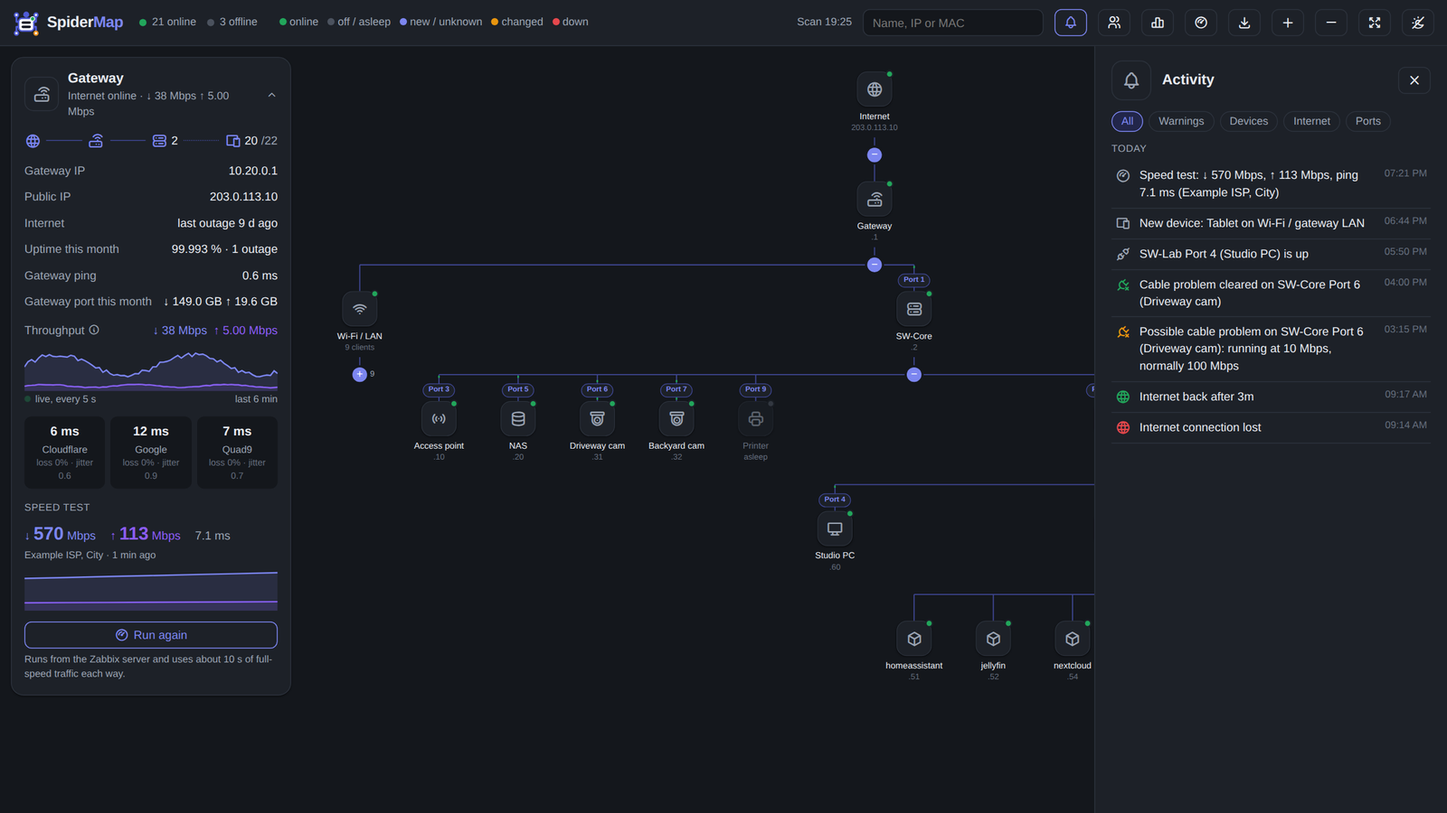
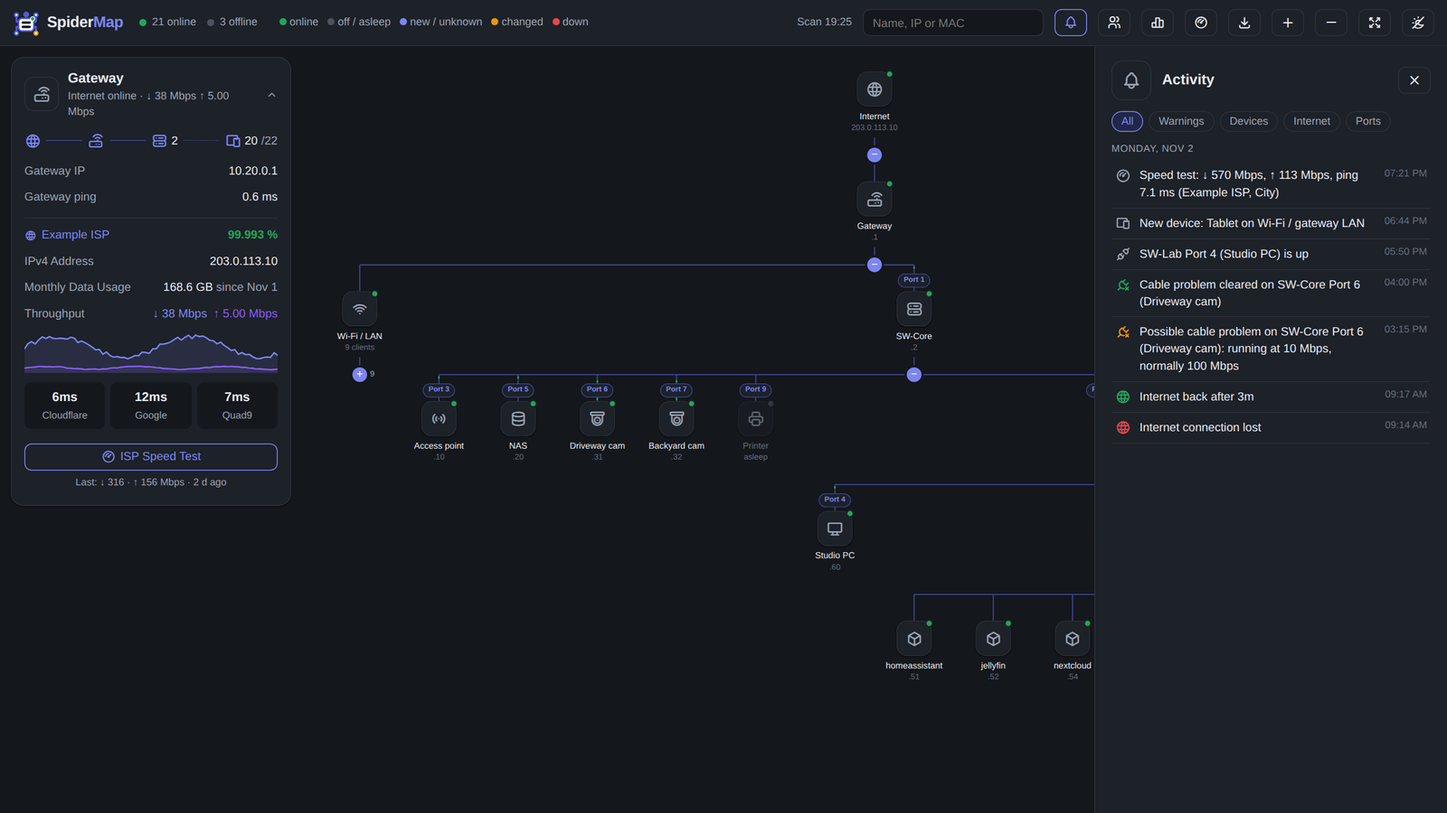
Add files via upload
SpiderMap 0.3.1: UniFi-style gateway card, speed test panel

Changed region(s): [[0.0, 0.2178, 0.2188, 0.84], [0.75, 0.1556, 0.8125, 0.1867]]

diff --git a/spidermap.html b/spidermap.html
@@ -12,7 +12,7 @@
 @media (prefers-color-scheme:dark){:root:not([data-theme=light]){--bg:#14171c;--card:#1d2128;--text:#e7eaf0;--muted:#9aa3b2;--faint:#646d7c;--border:#2c323c;--accent:#7c86f0;--accent-bg:#22264a;--ok-bg:#16301f;--warn-bg:#382a10;--bad-bg:#3a1a1b;--off:#4b525e;--line:#3f4794;--pur-bg:#2a2045;--shadow:0 1px 2px rgba(0,0,0,.4)}}
 :root[data-theme=dark]{--pur-bg:#2a2045;--bg:#14171c;--card:#1d2128;--text:#e7eaf0;--muted:#9aa3b2;--faint:#646d7c;--border:#2c323c;--accent:#7c86f0;--accent-bg:#22264a;--ok-bg:#16301f;--warn-bg:#382a10;--bad-bg:#3a1a1b;--off:#4b525e;--line:#3f4794;--shadow:0 1px 2px rgba(0,0,0,.4)}
 *{box-sizing:border-box}
-html,body{margin:0;height:100%;background:var(--bg);color:var(--text);font:13px/1.45 -apple-system,BlinkMacSystemFont,"Segoe UI",Roboto,Inter,Arial,sans-serif}
+html,body{margin:0;height:100%;overflow:hidden;background:var(--bg);color:var(--text);font:13px/1.45 -apple-system,BlinkMacSystemFont,"Segoe UI",Roboto,Inter,Arial,sans-serif}
 header{display:flex;align-items:center;gap:12px;flex-wrap:wrap;padding:10px 14px;border-bottom:1px solid var(--border);background:var(--card)}
 header h1{font-size:17px;font-weight:800;margin:0 6px 0 0;display:flex;align-items:center;gap:8px;letter-spacing:-.3px}
 header h1 b{font-weight:800}header h1 span{color:var(--accent)}
@@ -109,6 +109,10 @@ table{width:100%;border-collapse:collapse}
 .tile b{display:block;font-size:14px;font-weight:600}
 .tile span{font-size:11px;color:var(--muted)}
 .spark{width:100%;height:46px;display:block;margin:6px 0 2px}
+.gsep{border-top:1px solid var(--border);margin:8px 0 4px}
+.gr.isp{cursor:pointer}.gr.isp span:first-child{display:inline-flex;align-items:center;gap:6px;color:var(--accent)}
+.gfoot{position:sticky;bottom:0;background:var(--card);padding:12px 0 2px;margin-top:4px}
+.gfoot .btn{margin-top:0}.gfoot .last{font-size:11px;color:var(--muted);text-align:center;margin-top:6px}
 .livedot{display:inline-block;width:7px;height:7px;border-radius:50%;background:var(--ok);margin-right:5px;animation:blink 1.5s infinite}
 @keyframes blink{50%{opacity:.25}}
 .st-big{display:flex;gap:16px;align-items:baseline;margin:6px 0 2px}
@@ -195,7 +199,7 @@ table{width:100%;border-collapse:collapse}
 <div id="toast" role="status"></div>
 <script>
 "use strict";
-const PAGE_VERSION = "0.3.0";
+const PAGE_VERSION = "0.3.1";
 const COL = 108, ROW = 150;
 const $ = s => document.querySelector(s);
 const esc = s => String(s ?? "").replace(/[&<>"']/g, c => ({"&":"&amp;","<":"&lt;",">":"&gt;",'"':"&quot;","'":"&#39;"}[c]));
@@ -257,7 +261,7 @@ async function loadLive() {
 async function loadRT() {
   try {
     RT = await getData("rt");
-    if (DATA) { render(); gwCard(); if (sel === "#top") special("top"); else if (sel && byId[sel] && !($("#ef") && $("#ef").style.display === "block")) panel(sel, true); }
+    if (DATA) { render(); gwCard(); if (sel === "#top" || sel === "#speed") special(sel.slice(1)); else if (sel && byId[sel] && !($("#ef") && $("#ef").style.display === "block")) panel(sel, true); }
   } catch (e) {}
 }
 const rtFresh = () => RT && Date.now() / 1000 - RT.t < 30;
@@ -345,6 +349,11 @@ function bytes(v) { const u = ["B", "KB", "MB", "GB", "TB"]; let i = 0; while (v
 
 /* ---------- gateway card ---------- */
 let gwMin = store("nm-gwmin"); if (gwMin === null) gwMin = false;
+function bufferbloat(L) {
+  if (!L || !L.load_down) return null;
+  const rise = Math.max(L.load_down || 0, L.load_up || 0) - (L.ping || 0);
+  return rise < 30 ? ["low", "var(--ok)"] : rise < 100 ? ["medium", "var(--warn)"] : ["high", "var(--bad)"];
+}
 function gwCard() {
   const box = $("#gw"); if (!DATA) return;
   const gw = DATA.nodes.find(n => n.kind === "router"), inet = byId.inet, I = LIVE.inet || {};
@@ -356,57 +365,77 @@ function gwCard() {
   const wan = live && RT.wan ? RT.wan : I.wan;
   const wanRows = live && RT.hist.wan.length > 2 ? RT.hist.wan : LIVE.hist && LIVE.hist.wan;
   const lat = live && RT.latency && Object.keys(RT.latency).length ? RT.latency : I.latency || {};
-  const SP = live ? RT.speedtest : null;
+  const SP = live ? RT.speedtest : null, L = SP && SP.last;
+  const RI = live && RT.inet ? RT.inet : I;
   let h = "";
   const W = (LIVE.warnings || []);
   if (W.length && !down.length) h += `<div class="warnb" id="gw-warn"><i class="ti ti-alert-triangle"></i>${W.length === 1 ? esc(W[0]) : W.length + " warnings"}<span style="margin-left:auto">›</span></div>`;
   if (down.length) h += `<div class="warnb" data-go="${esc(down[0].id)}"><i class="ti ti-alert-triangle"></i>${down.length === 1 ? esc(down[0].name) + " is offline" : down.length + " important devices offline"}<span style="margin-left:auto">›</span></div>`;
-  h += `<div class="gh" id="gwh"><div class="ic">${gw ? iconHtml(gw) : '<i class="ti ti-router"></i>'}</div><div style="flex:1;min-width:0"><div style="font-weight:600;font-size:15px">${esc(gw ? gw.name : "Gateway")}</div><div style="color:var(--muted);font-size:12px">${I.up === false ? '<span style="color:var(--bad)">Internet down</span>' : "Internet online"}${wan ? " · ↓ " + mbps(wan.down) + " ↑ " + mbps(wan.up) : ""}</div></div><i class="ti ti-chevron-${gwMin ? "down" : "up"}" style="color:var(--muted)"></i></div>`;
+  h += `<div class="gh" id="gwh"><div class="ic">${gw ? iconHtml(gw) : '<i class="ti ti-router"></i>'}</div><div style="flex:1;min-width:0"><div style="font-weight:600;font-size:15px">${esc(gw ? gw.name : "Gateway")}</div><div style="color:var(--muted);font-size:12px">${RI.up === false ? '<span style="color:var(--bad)">Internet down</span>' : "Internet online"}${wan ? " · ↓ " + mbps(wan.down) + " ↑ " + mbps(wan.up) : ""}</div></div><i class="ti ti-chevron-${gwMin ? "down" : "up"}" style="color:var(--muted)"></i></div>`;
   h += `<div class="gb"><div class="chain">
-    <span class="c" title="Internet"><i class="ti ti-world"></i>${I.up === false ? '<span class="rd"></span>' : ""}</span><span class="ln1"></span>
+    <span class="c" title="Internet"><i class="ti ti-world"></i>${RI.up === false ? '<span class="rd"></span>' : ""}</span><span class="ln1"></span>
     <span class="c" title="Gateway"><i class="ti ti-router"></i></span><span class="ln1"></span>
     <span class="c" title="Switches"><i class="ti ti-server-2"></i><b>${sws.length}</b></span><span class="ln2"></span>
     <span class="c" title="Devices online / total"><i class="ti ti-devices"></i><b>${on}</b><span style="color:var(--muted)">/${devs.length}</span>${devs.some(n => status(n) === "down") ? '<span class="rd"></span>' : ""}</span></div>`;
-  const row = (k, v) => `<div class="gr"><span>${k}</span><span>${v}</span></div>`;
-  h += row("Gateway IP", esc(gw && gw.ip || "-")) + row("Public IP", esc(inet && inet.sub || "-"));
-  const RI = live && RT.inet ? RT.inet : I;
-  h += row("Internet", RI.down_since ? `<span style="color:var(--bad)">down since ${ago(RI.down_since)}</span>` : RI.last_outage ? "last outage " + ago(RI.last_outage[0]) : "no outages seen");
-  if (live && RT.inet && RT.inet.uptime_month != null) h += row("Uptime this month", RT.inet.uptime_month.toFixed(RT.inet.uptime_month >= 99.995 ? 2 : 3) + " %" + (RT.inet.outages_month.length ? ` · ${RT.inet.outages_month.length} outage${RT.inet.outages_month.length > 1 ? "s" : ""}` : ""));
+  const row = (k, v, title) => `<div class="gr"${title ? ` title="${esc(title)}"` : ""}><span>${k}</span><span>${v}</span></div>`;
+  h += row("Gateway IP", esc(gw && gw.ip || "-"));
   const gT = live && RT.targets && RT.targets.Gateway;
   if (gT) h += row("Gateway ping", gT.ms == null ? '<span style="color:var(--bad)">no answer</span>' : gT.ms + " ms" + (gT.loss ? ` · ${gT.loss} % loss` : ""));
+  h += `<div class="gsep"></div>`;
+  // internet line: provider and uptime this month, like a UniFi gateway card
+  const up = live && RT.inet ? RT.inet.uptime_month : null;
+  const upc = up == null ? "var(--muted)" : up >= 99.9 ? "var(--ok)" : up >= 99 ? "var(--warn)" : "var(--bad)";
+  const outages = live && RT.inet && RT.inet.outages_month ? RT.inet.outages_month.length : 0;
+  const upTitle = RI.down_since ? "" : (RI.last_outage ? "Last outage " + ago(RI.last_outage[0]) : "No outages seen") + (outages ? ` · ${outages} this month` : "");
+  h += `<div class="gr isp" id="gw-inet" title="${esc(upTitle)}"><span><i class="ti ti-world"></i>${esc((L && L.isp) || "Internet")}</span>`
+     + `<span style="color:${RI.down_since ? "var(--bad)" : upc};font-weight:600">${RI.down_since ? "down " + ago(RI.down_since).replace(" ago", "") : up == null ? "" : up.toFixed(up >= 99.995 ? 2 : 3) + " %"}</span></div>`;
+  h += row("IPv4 Address", esc(inet && inet.sub || "-"));
   const rootSw = DATA.nodes.find(n => n.kind === "switch" && n.flip && n.port_ref);
-  const mu = live && rootSw && RT.usage && RT.usage.m && RT.usage.m[rootSw.port_ref[0]] ? RT.usage.m[rootSw.port_ref[0]][String(rootSw.port_ref[1])] : null;
+  const mu = live && rootSw && RT.usage && RT.usage.m && RT.usage.m[rootSw.port_ref[0]] ? RT.usage.m[rootSw.port_ref[0]][String(rootSw.port_ref[1])] : (I.month ? [I.month.down, I.month.up] : null);
   const since = live && RT.usage && RT.usage.since && RT.usage.since > new Date(new Date().getFullYear(), new Date().getMonth(), 1).getTime() / 1000
-    ? ` <span style="color:var(--muted)">(since ${new Date(RT.usage.since * 1000).toLocaleDateString(undefined, { day: "numeric", month: "short" })})</span>` : "";
-  if (mu) h += row("Gateway port this month", "↓ " + bytes(mu[0]) + " ↑ " + bytes(mu[1]) + since);
-  else if (I.month) h += row("Gateway port this month", "↓ " + bytes(I.month.down) + " ↑ " + bytes(I.month.up));
-  h += `<div class="gr" style="margin-top:4px"><span title="Measured on the switch port to the gateway. Wi-Fi traffic to the internet goes through the gateway directly and is not included.">Throughput <i class="ti ti-info-circle"></i></span><span>${wan ? `<span style="color:var(--accent)">↓ ${mbps(wan.down)}</span> &nbsp;<span style="color:var(--pur)">↑ ${mbps(wan.up)}</span>` : "-"}</span></div>`;
-  h += spark(wanRows, 1, 2) + `<div class="lgd"><span>${live ? '<span class="livedot"></span>live, every ' + (RT.every || 5) + " s" : "updated every minute"}</span><span style="margin-left:auto">${wanRows ? (live && wanRows === RT.hist.wan ? "last " + Math.round(wanRows.length * (RT.every || 5) / 60) + " min" : "last " + wanRows.length + " min") : ""}</span></div>`;
+    ? new Date(RT.usage.since * 1000).toLocaleDateString(undefined, { day: "numeric", month: "short" }) : "";
+  if (mu) h += row("Monthly Data Usage", bytes(mu[0] + mu[1]) + (since ? ` <span style="color:var(--muted)">since ${esc(since)}</span>` : ""),
+                   `↓ ${bytes(mu[0])} · ↑ ${bytes(mu[1])}, measured on the switch port to the gateway`);
+  h += `<div class="gr" title="Measured on the switch port to the gateway. Wi-Fi traffic to the internet goes through the gateway directly and is not included."><span>Throughput</span><span>${wan ? `<span style="color:var(--accent)">↓ ${mbps(wan.down)}</span> &nbsp;<span style="color:var(--pur)">↑ ${mbps(wan.up)}</span>` : "-"}</span></div>`;
+  h += spark(wanRows, 1, 2);
   const TG = live && RT.targets ? RT.targets : {};
-  h += `<div class="tiles">${Object.entries(lat).map(([k, v]) => { const x = TG[k]; return `<div class="tile"><b style="color:${v == null ? "var(--bad)" : v > 80 ? "var(--warn)" : "var(--text)"}">${v == null ? "—" : Math.round(v) + " ms"}</b><span>${esc(k)}</span>${x ? `<small style="color:${x.loss >= 5 ? "var(--warn)" : "var(--faint)"}">loss ${x.loss}% · jitter ${x.jit ?? "-"}</small>` : ""}</div>`; }).join("")}</div>`;
-  if (SP) {
-    const L = SP.last;
-    h += `<div class="sec" style="margin-top:14px">Speed test</div>`;
-    if (SP.running) h += `<div class="st-big" style="color:var(--accent)"><i class="ti ti-loader-2 spin"></i><span>Running… ${Math.round(Date.now() / 1000 - (SP.started || 0))} s</span></div>`;
-    else if (L) {
-      h += `<div class="st-big"><span style="color:var(--accent)">↓ <b>${(L.down / 1e6).toFixed(0)}</b> Mbps</span><span style="color:var(--pur)">↑ <b>${(L.up / 1e6).toFixed(0)}</b> Mbps</span><span style="color:var(--muted)">${L.ping} ms</span></div><div style="font-size:11px;color:var(--muted)">${esc(L.server)} · ${ago(L.at)}${L.url && /^https:\/\/www\.speedtest\.net\//.test(L.url) ? ` · <a href="${esc(L.url)}" target="_blank" rel="noopener" style="color:var(--accent)">details</a>` : ""}</div>`;
-      if (L.load_down) {
-        const rise = Math.max(L.load_down || 0, L.load_up || 0) - (L.ping || 0);
-        const [g, c] = rise < 30 ? ["low", "var(--ok)"] : rise < 100 ? ["medium", "var(--warn)"] : ["high", "var(--bad)"];
-        h += `<div class="gr" style="margin-top:6px" title="How much the ping rises while the line is busy. High bufferbloat makes video calls and games stutter during downloads."><span>Latency under load</span><span>↓ ${Math.round(L.load_down)} ms · ↑ ${Math.round(L.load_up || 0)} ms</span></div><div class="gr"><span>Bufferbloat</span><span style="color:${c};font-weight:600">${g}</span></div>`;
-      }
-    }
-    if (spHist(SP).length > 1) h += `<div class="gr" style="cursor:pointer;color:var(--accent)" id="sp-more"><span>History of ${spHist(SP).length} tests</span><span>›</span></div>`;
-    if (SP.error) h += `<div style="color:var(--bad);font-size:12px;margin-top:6px">${esc(SP.error)}</div>`;
-    h += `<button class="btn wide" id="spt"><i class="ti ti-gauge"></i>${SP.running ? "Speed test running…" : L ? "Run again" : "Run speed test"}</button><div id="spm" style="font-size:11px;color:var(--muted);margin-top:5px">Runs from the Zabbix server and uses about 10 s of full-speed traffic each way.</div>`;
-  }
+  h += `<div class="tiles">${Object.entries(lat).map(([k, v]) => { const x = TG[k]; return `<div class="tile" title="${x ? `loss ${x.loss} % · jitter ${x.jit ?? "-"} ms` : ""}"><b style="color:${v == null ? "var(--bad)" : v > 80 ? "var(--warn)" : "var(--text)"}">${v == null ? "—" : Math.round(v) + "ms"}</b><span>${esc(k)}</span>${x && x.loss >= 5 ? `<small style="color:var(--warn)">loss ${x.loss}%</small>` : ""}</div>`; }).join("")}</div>`;
+  // the speed test button stays visible at the bottom of the card, even when the card has to scroll
+  if (SP) h += `<div class="gfoot"><button class="btn wide" id="spt">${SP.running ? `<i class="ti ti-loader-2 spin"></i>Testing… ${Math.round(Date.now() / 1000 - (SP.started || 0))} s` : '<i class="ti ti-gauge"></i>ISP Speed Test'}</button>`
+     + (L && !SP.running ? `<div class="last">Last: ↓ ${(L.down / 1e6).toFixed(0)} · ↑ ${(L.up / 1e6).toFixed(0)} Mbps · ${ago(L.at)}</div>` : "") + `</div>`;
   h += `</div>`;
   box.innerHTML = h; box.classList.toggle("min", gwMin);
   $("#gwh").onclick = () => { gwMin = !gwMin; store("nm-gwmin", gwMin); gwCard(); };
   const wb = box.querySelector(".warnb"); if (wb) wb.onclick = () => select(wb.dataset.go, true);
-  const sb = $("#spt"); if (sb) sb.onclick = () => startSpeedtest($("#spm"));
-  const sm2 = $("#sp-more"); if (sm2) sm2.onclick = () => select("inet", true);
+  const sb = $("#spt"); if (sb) sb.onclick = () => special("speed");
+  const gi = $("#gw-inet"); if (gi) gi.onclick = () => select("inet", true);
   const gwW = $("#gw-warn"); if (gwW) gwW.onclick = () => { evFilter = "warnings"; special("activity"); };
+}
+
+/* ---------- speed test panel ---------- */
+function speedHtml() {
+  const SP = rtFresh() ? RT.speedtest : null;
+  if (!SP) return `<p style="color:var(--muted)">Speed tests need the real-time service (spidermap-rt).</p>`;
+  const L = SP.last;
+  let h = "";
+  if (SP.running) h += `<div class="st-big" style="color:var(--accent)"><i class="ti ti-loader-2 spin"></i><span>Testing… ${Math.round(Date.now() / 1000 - (SP.started || 0))} s</span></div><p style="color:var(--muted);margin:4px 0 0">A test takes about 30 seconds.</p>`;
+  else if (L) {
+    h += `<div class="st-big"><span style="color:var(--accent)">↓ <b>${(L.down / 1e6).toFixed(0)}</b> Mbps</span><span style="color:var(--pur)">↑ <b>${(L.up / 1e6).toFixed(0)}</b> Mbps</span><span style="color:var(--muted)">${L.ping} ms</span></div>`
+       + `<div style="font-size:12px;color:var(--muted)">${esc(L.server)} · ${ago(L.at)}${L.url && /^https:\/\/www\.speedtest\.net\//.test(L.url) ? ` · <a href="${esc(L.url)}" target="_blank" rel="noopener" style="color:var(--accent)">details</a>` : ""}</div>`;
+    const bb = bufferbloat(L);
+    if (bb) h += `<div class="sec">Responsiveness</div>`
+       + `<div class="gr" title="How much the ping rises while the line is busy."><span>Latency under load</span><span>↓ ${Math.round(L.load_down)} ms · ↑ ${Math.round(L.load_up || 0)} ms</span></div>`
+       + `<div class="gr" title="High bufferbloat makes video calls and games stutter during downloads."><span>Bufferbloat</span><span style="color:${bb[1]};font-weight:600">${bb[0]}</span></div>`;
+  } else h += `<p style="color:var(--muted)">No speed test yet.</p>`;
+  if (SP.error) h += `<div style="color:var(--bad);font-size:12px;margin-top:8px">${esc(SP.error)}</div>`;
+  h += `<button class="btn wide" id="spt2" style="margin-top:14px">${SP.running ? '<i class="ti ti-loader-2 spin"></i>Testing…' : '<i class="ti ti-gauge"></i>' + (L ? "Run again" : "Run speed test")}</button>`
+     + `<div id="spm2" style="font-size:11px;color:var(--muted);margin-top:5px">Runs from the Zabbix server and uses about 10 s of full-speed traffic each way.</div>`;
+  const SH = spHist(SP).slice(-10);
+  if (SH.length) {
+    h += `<div class="sec">History · last ${SH.length}</div><div class="lgd"><span><i style="background:var(--accent)"></i>download</span><span><i style="background:var(--pur)"></i>upload</span><span style="margin-left:auto">Mbps</span></div>` + speedBars(SH);
+    h += `<table class="lst" style="margin-top:6px">${SH.slice().reverse().map(x => `<tr><td>${new Date(x.at * 1000).toLocaleString([], { day: "numeric", month: "short", hour: "2-digit", minute: "2-digit" })}</td><td style="white-space:nowrap">↓ ${(x.down / 1e6).toFixed(0)} · ↑ ${(x.up / 1e6).toFixed(0)}</td><td>${x.ping} ms${x.load_down ? ` · load ${Math.round(Math.max(x.load_down, x.load_up || 0))} ms` : ""}</td></tr>`).join("")}</table>`;
+  }
+  return h;
 }
 
 /* ---------- stats + edit form for the side panel ---------- */
@@ -614,6 +643,7 @@ function panel(id, quiet) {
   $("#pclose").onclick = closePanel;
   const cm = $("#cmac"); if (cm) cm.onclick = () => { navigator.clipboard && navigator.clipboard.writeText(n.mac); cm.innerHTML = '<i class="ti ti-check"></i>Copied'; };
   P.querySelectorAll("[data-go]").forEach(r => r.onclick = () => select(r.dataset.go, true));
+  const isp = $("#inet-speed"); if (isp) isp.onclick = () => special("speed");
   const eb = $("#edit"); if (eb) eb.onclick = () => { const f = $("#ef"); f.style.display = f.style.display === "block" ? "none" : "block"; if (f.style.display === "block") $("#e-name").focus(); };
   const es = $("#e-save"); if (es) es.onclick = () => saveEdit(n);
   const ec = $("#e-cancel"); if (ec) ec.onclick = () => { $("#ef").style.display = "none"; };
@@ -736,17 +766,15 @@ function internetHtml() {
   h += `<div class="sec">Outages this month · ${outs.length}</div>`;
   h += outs.length ? `<table class="lst">${outs.map(o => `<tr><td>${new Date(o[0] * 1000).toLocaleString([], { day: "numeric", month: "short", hour: "2-digit", minute: "2-digit" })}</td><td>${Math.max(1, Math.round((o[1] - o[0]) / 60))} min</td></tr>`).join("")}</table>` : `<p style="color:var(--muted);margin:0">None.</p>`;
   const SH = spHist(RT.speedtest).slice(-10);
-  if (SH.length) {
-    h += `<div class="sec">Speed tests · last ${SH.length}</div><div class="lgd"><span><i style="background:var(--accent)"></i>download</span><span><i style="background:var(--pur)"></i>upload</span><span style="margin-left:auto">Mbps</span></div>` + speedBars(SH);
-    h += `<table class="lst" style="margin-top:6px">${SH.slice().reverse().map(x => `<tr><td>${new Date(x.at * 1000).toLocaleString([], { day: "numeric", month: "short", hour: "2-digit", minute: "2-digit" })}</td><td style="white-space:nowrap">↓ ${(x.down / 1e6).toFixed(0)} · ↑ ${(x.up / 1e6).toFixed(0)}</td><td>${x.ping} ms${x.load_down ? ` · load ${Math.round(Math.max(x.load_down, x.load_up || 0))} ms` : ""}</td></tr>`).join("")}</table>`;
-  }
+  if (SH.length) h += `<div class="gr" id="inet-speed" style="cursor:pointer;color:var(--accent);margin-top:12px"><span>Speed tests · last ${SH.length}</span><span>›</span></div>`;
   const ph = DATA.public_ip_history || [];
   if (ph.length) h += `<div class="sec">Public IP changes</div><table class="lst">${ph.slice().reverse().map(x => `<tr><td>${new Date(x[0] * 1000).toLocaleDateString()}</td><td>${esc(x[1])} → ${esc(x[2])}</td></tr>`).join("")}</table>`;
   return h;
 }
 
 /* ---------- special panels (activity, people, top talkers) ---------- */
-const SPECIAL = { activity: ["Activity", "bell", activityHtml], people: ["Who's online", "users", peopleHtml], top: ["Top talkers", "chart-bar", topHtml] };
+const SPECIAL = { activity: ["Activity", "bell", activityHtml], people: ["Who's online", "users", peopleHtml], top: ["Top talkers", "chart-bar", topHtml],
+                  speed: ["ISP Speed Test", "gauge", speedHtml] };
 function special(kind) {
   const [title, icon, fn] = SPECIAL[kind], P = $("#panel");
   sel = "#" + kind;
@@ -758,6 +786,7 @@ function special(kind) {
   P.querySelectorAll("[data-pa]").forEach(c => c.onclick = () => { pplAll = c.dataset.pa === "1"; special("people"); });
   P.querySelectorAll("[data-tp]").forEach(c => c.onclick = () => { topPer = c.dataset.tp; special("top"); });
   if (kind === "activity") { store("nm-seen", Date.now() / 1000); actBadge(); }
+  const s2 = $("#spt2"); if (s2) s2.onclick = () => startSpeedtest($("#spm2"));
   if (DATA) render();
 }
 $("#b-act").onclick = () => special("activity");
@@ -775,11 +804,11 @@ async function startSpeedtest(msg) {
     const j = await r.json().catch(() => ({ ok: false, error: "Unexpected answer (" + r.status + ")" }));
     if (!j.ok) return say(j.error || "Couldn't start the test.", true);
     if (RT && RT.speedtest) { RT.speedtest.running = true; RT.speedtest.started = Date.now() / 1000; RT.speedtest.error = ""; }
-    gwCard(); say("Speed test started. Results appear on the gateway card in about 30 s.");
-    if (gwMin) { gwMin = false; store("nm-gwmin", false); gwCard(); }
+    gwCard(); if (sel === "#speed") special("speed");
+    say("Speed test started. The result appears here in about 30 s.");
   } catch (e) { say("Couldn't reach the server.", true); }
 }
-$("#b-spd").onclick = () => startSpeedtest(null);
+$("#b-spd").onclick = () => special("speed");
 $("#b-csv").onclick = () => {
   if (!DATA) return;
   const q = v => '"' + String(v ?? "").replace(/"/g, '""') + '"';

diff --git a/spidermap.py b/spidermap.py
@@ -28,7 +28,7 @@ import requests
 import spidermap_zabbix as at
 import spidermap_ports as zp
 
-__version__ = "0.3.0"   # keep in sync with PAGE_VERSION in spidermap.html and CHANGELOG.md
+__version__ = "0.3.1"   # keep in sync with PAGE_VERSION in spidermap.html and CHANGELOG.md
 
 HERE = os.path.dirname(os.path.abspath(__file__))
 DEVICES_FILE = os.path.join(HERE, "devices.json")
@@ -470,6 +470,13 @@ def full_scan(api, community=None, quiet=False):
                 if not cur or len(p["macs"]) < cur[2]:
                     seen_at[mac] = (sid, p["name"], len(p["macs"]))
     online = set(seen_at) | {m for m, v in arp.items() if v[1] in ONLINE_STATES}
+    # a switch's own management address is not a device: the switch is already on the map as a switch
+    sw_ips = {ip for s_ in sw.values() for ip in s_["host"]["_ips"]}
+    switch_macs = {m for m, ip in ipmap.items() if ip in sw_ips}
+    online -= switch_macs
+    for m in switch_macs:
+        seen_at.pop(m, None)
+        sdev.pop(m, None)
 
     gw_loc = seen_at.get(gw_mac) if gw_mac else None
     root_sw = gw_loc[0] if gw_loc else (next(iter(sw)) if sw else None)
@@ -750,7 +757,7 @@ def full_scan(api, community=None, quiet=False):
                              ["MAC", ", ".join(g["macs"]) or "-"]])
 
     # known devices never placed
-    rest = [m for m in set(dcfg) | set(sdev) if m not in placed and m != gw_mac
+    rest = [m for m in set(dcfg) | set(sdev) if m not in placed and m != gw_mac and m not in switch_macs
             and m not in by_mac and not (sdev.get(m, {}).get("loc") or {}).get("k") == "behind"]
     if rest and root_sw:
         add("unplaced", "s-" + root_sw, name="Not placed yet", sub=f"{len(rest)} devices", icon="question-mark",

diff --git a/CHANGELOG.md b/CHANGELOG.md
@@ -4,6 +4,21 @@ All notable changes to SpiderMap. The format follows [Keep a Changelog](https://
 and versions follow [Semantic Versioning](https://semver.org/): while SpiderMap is `0.x`, a new **minor** version
 (0.3.0) adds features, a **patch** version (0.2.3) only fixes things.
 
+## [0.3.1] - 2026-11-04
+
+### Changed
+- **Gateway card in the style of a UniFi gateway card:** gateway IP and ping, then the internet provider with this
+  month's uptime (green, amber or red), public IP, monthly data usage, throughput with graph and latency tiles.
+- **"ISP Speed Test" button at the bottom of the card, always visible:** when the card is taller than the window,
+  the content scrolls and the button stays in place. It opens the new **speed test panel** (also from the toolbar):
+  latest result, latency under load and bufferbloat, run again, and the history.
+
+### Fixed
+- **Switches appeared a second time as devices** under "Not placed yet" (their own management address was
+  treated as an unknown device). A switch's own address is no longer a device.
+- **A horizontal scrollbar** appeared at the bottom of the page (the closed side panel made the page wider than the
+  window).
+
 ## [0.3.0] - 2026-11-03
 
 **Correct traffic numbers on every switch.** From the review by Nikolaos Karanikolas, confirmed with the interface
@@ -131,6 +146,7 @@ First release as **SpiderMap** (earlier development versions were called *zabbix
 - Who's online (presence timeline), top talkers, CSV export, editing from the map, light and dark theme.
 - Installer with migration from the earlier *zabbix-netmap* install.
 
+[0.3.1]: https://github.com/christopher-theodorou/spidermap/releases/tag/v0.3.1
 [0.3.0]: https://github.com/christopher-theodorou/spidermap/releases/tag/v0.3.0
 [0.2.3]: https://github.com/christopher-theodorou/spidermap/releases/tag/v0.2.3
 [0.2.2]: https://github.com/christopher-theodorou/spidermap/releases/tag/v0.2.2
